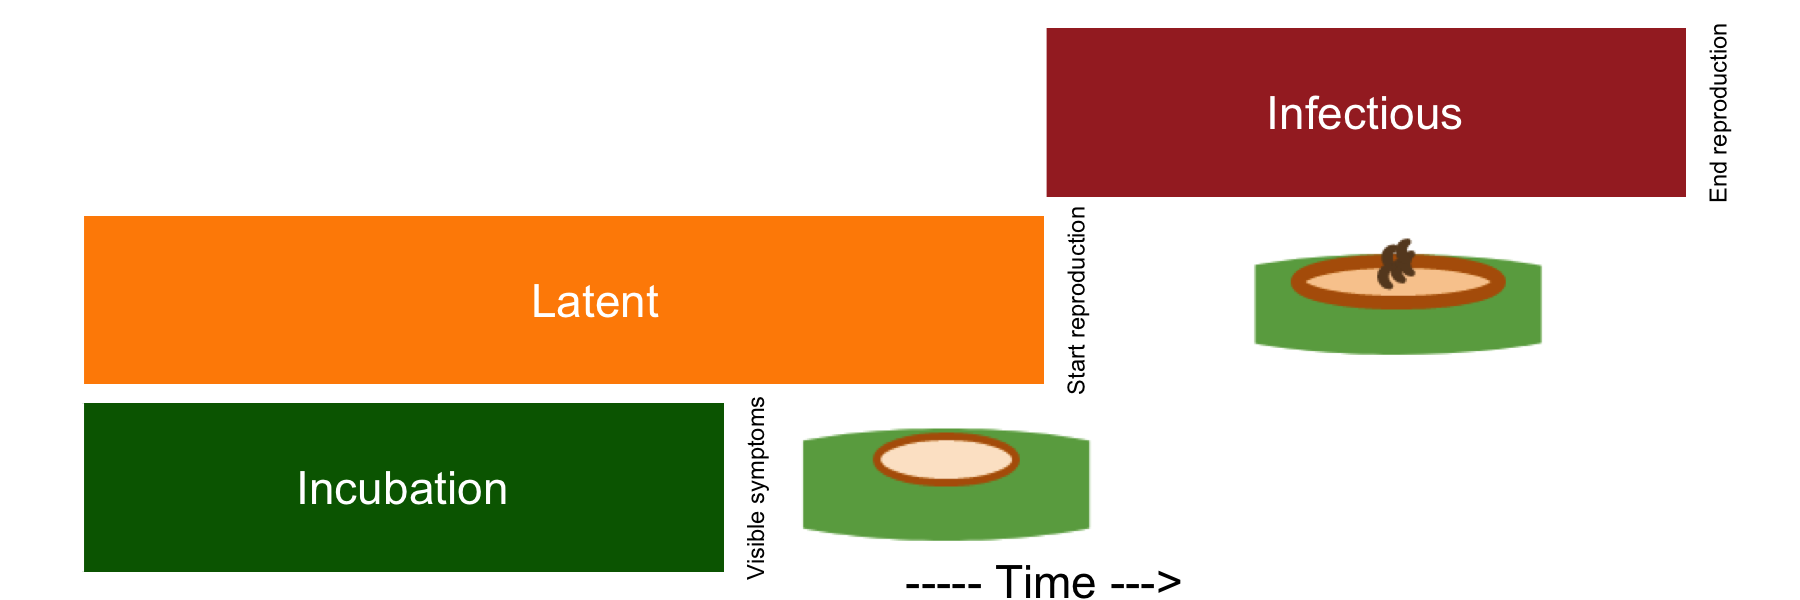
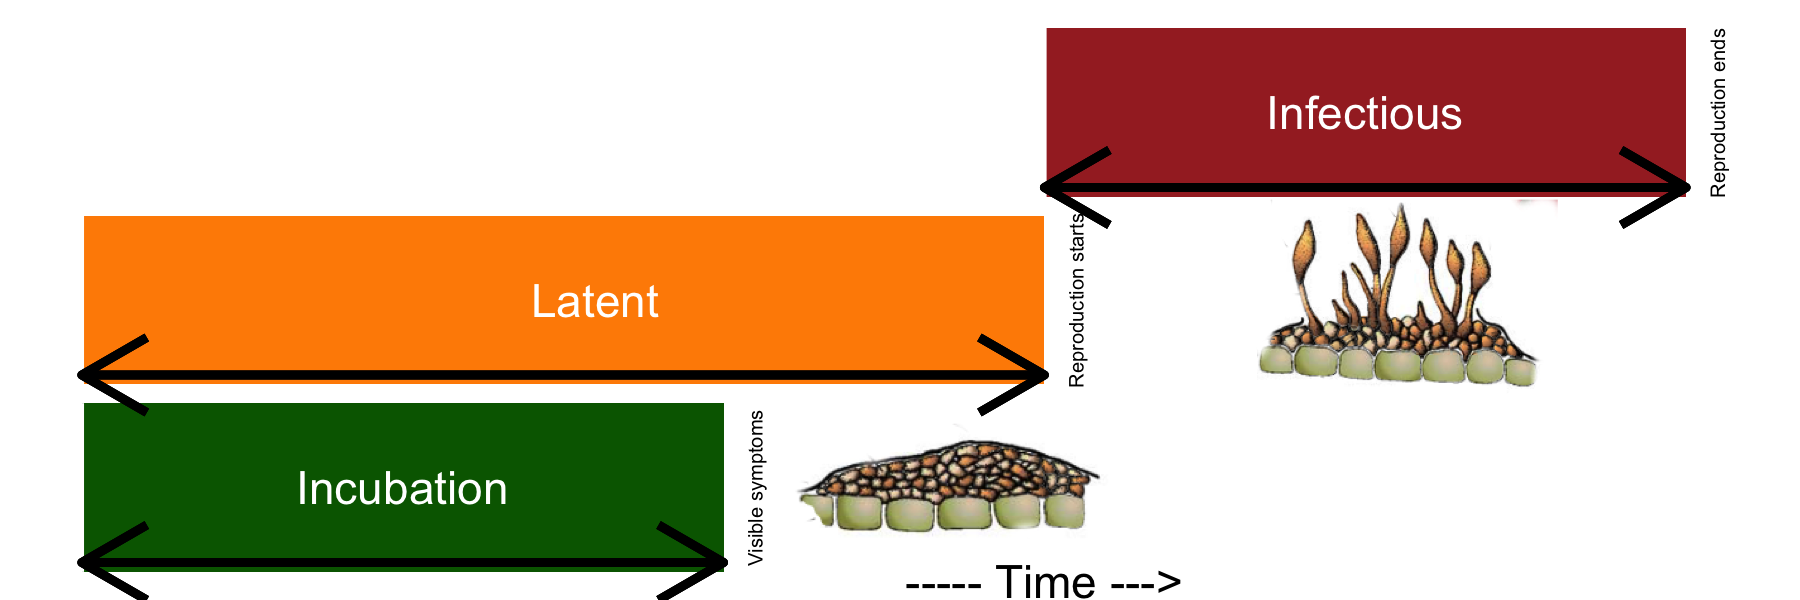
improved drawing

diff --git a/_book/temporal-dpc.html b/_book/temporal-dpc.html
@@ -7,7 +7,7 @@
 <meta name="viewport" content="width=device-width, initial-scale=1.0, user-scalable=yes">
 
 
-<title>R4PDE - 8&nbsp; Disease progress curves</title>
+<title>R4PDE - 7&nbsp; Disease progress curves</title>
 <style>
 code{white-space: pre-wrap;}
 span.smallcaps{font-variant: small-caps;}
@@ -164,7 +164,7 @@ gtag('config', 'G-5T7SZYQV79', { 'anonymize_ip': true});
   <header id="quarto-header" class="headroom fixed-top">
   <nav class="quarto-secondary-nav" data-bs-toggle="collapse" data-bs-target="#quarto-sidebar" aria-controls="quarto-sidebar" aria-expanded="false" aria-label="Toggle sidebar navigation" onclick="if (window.quartoToggleHeadroom) { window.quartoToggleHeadroom(); }">
     <div class="container-fluid d-flex justify-content-between">
-      <h1 class="quarto-secondary-nav-title"><span class="chapter-number">8</span>&nbsp; <span class="chapter-title">Disease progress curves</span></h1>
+      <h1 class="quarto-secondary-nav-title"><span class="chapter-number">7</span>&nbsp; <span class="chapter-title">Disease progress curves</span></h1>
       <button type="button" class="quarto-btn-toggle btn" aria-label="Show secondary navigation">
         <i class="bi bi-chevron-right"></i>
       </button>
@@ -220,27 +220,22 @@ gtag('config', 'G-5T7SZYQV79', { 'anonymize_ip': true});
 </li>
           <li class="sidebar-item">
   <div class="sidebar-item-container"> 
-  <a href="./data-type-distributions.html" class="sidebar-item-text sidebar-link"><span class="chapter-number">3</span>&nbsp; <span class="chapter-title">Data types and simulation</span></a>
+  <a href="./data-ordinal.html" class="sidebar-item-text sidebar-link"><span class="chapter-number">3</span>&nbsp; <span class="chapter-title">Ordinal scales</span></a>
   </div>
 </li>
           <li class="sidebar-item">
   <div class="sidebar-item-container"> 
-  <a href="./data-ordinal.html" class="sidebar-item-text sidebar-link"><span class="chapter-number">4</span>&nbsp; <span class="chapter-title">Ordinal scales</span></a>
+  <a href="./data-actual-severity.html" class="sidebar-item-text sidebar-link"><span class="chapter-number">4</span>&nbsp; <span class="chapter-title">Image analysis</span></a>
   </div>
 </li>
           <li class="sidebar-item">
   <div class="sidebar-item-container"> 
-  <a href="./data-actual-severity.html" class="sidebar-item-text sidebar-link"><span class="chapter-number">5</span>&nbsp; <span class="chapter-title">Image analysis</span></a>
+  <a href="./data-sads.html" class="sidebar-item-text sidebar-link"><span class="chapter-number">5</span>&nbsp; <span class="chapter-title">Standard area diagrams</span></a>
   </div>
 </li>
           <li class="sidebar-item">
   <div class="sidebar-item-container"> 
-  <a href="./data-sads.html" class="sidebar-item-text sidebar-link"><span class="chapter-number">6</span>&nbsp; <span class="chapter-title">Standard area diagrams</span></a>
-  </div>
-</li>
-          <li class="sidebar-item">
-  <div class="sidebar-item-container"> 
-  <a href="./data-accuracy.html" class="sidebar-item-text sidebar-link"><span class="chapter-number">7</span>&nbsp; <span class="chapter-title">Reliability and accuracy</span></a>
+  <a href="./data-accuracy.html" class="sidebar-item-text sidebar-link"><span class="chapter-number">6</span>&nbsp; <span class="chapter-title">Reliability and accuracy</span></a>
   </div>
 </li>
       </ul>
@@ -255,17 +250,17 @@ gtag('config', 'G-5T7SZYQV79', { 'anonymize_ip': true});
       <ul id="quarto-sidebar-section-2" class="collapse list-unstyled sidebar-section depth1 show">  
           <li class="sidebar-item">
   <div class="sidebar-item-container"> 
-  <a href="./temporal-dpc.html" class="sidebar-item-text sidebar-link active"><span class="chapter-number">8</span>&nbsp; <span class="chapter-title">Disease progress curves</span></a>
+  <a href="./temporal-dpc.html" class="sidebar-item-text sidebar-link active"><span class="chapter-number">7</span>&nbsp; <span class="chapter-title">Disease progress curves</span></a>
   </div>
 </li>
           <li class="sidebar-item">
   <div class="sidebar-item-container"> 
-  <a href="./temporal-models.html" class="sidebar-item-text sidebar-link"><span class="chapter-number">9</span>&nbsp; <span class="chapter-title">Population models</span></a>
+  <a href="./temporal-models.html" class="sidebar-item-text sidebar-link"><span class="chapter-number">8</span>&nbsp; <span class="chapter-title">Population models</span></a>
   </div>
 </li>
           <li class="sidebar-item">
   <div class="sidebar-item-container"> 
-  <a href="./temporal-fitting.html" class="sidebar-item-text sidebar-link"><span class="chapter-number">10</span>&nbsp; <span class="chapter-title">Model fitting</span></a>
+  <a href="./temporal-fitting.html" class="sidebar-item-text sidebar-link"><span class="chapter-number">9</span>&nbsp; <span class="chapter-title">Model fitting</span></a>
   </div>
 </li>
       </ul>
@@ -280,27 +275,27 @@ gtag('config', 'G-5T7SZYQV79', { 'anonymize_ip': true});
       <ul id="quarto-sidebar-section-3" class="collapse list-unstyled sidebar-section depth1 show">  
           <li class="sidebar-item">
   <div class="sidebar-item-container"> 
-  <a href="./spatial-gradients.html" class="sidebar-item-text sidebar-link"><span class="chapter-number">11</span>&nbsp; <span class="chapter-title">Spatial gradients</span></a>
+  <a href="./spatial-gradients.html" class="sidebar-item-text sidebar-link"><span class="chapter-number">10</span>&nbsp; <span class="chapter-title">Spatial gradients</span></a>
   </div>
 </li>
           <li class="sidebar-item">
   <div class="sidebar-item-container"> 
-  <a href="./spatial-models.html" class="sidebar-item-text sidebar-link"><span class="chapter-number">12</span>&nbsp; <span class="chapter-title">Gradient models</span></a>
+  <a href="./spatial-models.html" class="sidebar-item-text sidebar-link"><span class="chapter-number">11</span>&nbsp; <span class="chapter-title">Gradient models</span></a>
   </div>
 </li>
           <li class="sidebar-item">
   <div class="sidebar-item-container"> 
-  <a href="./spatial-fitting.html" class="sidebar-item-text sidebar-link"><span class="chapter-number">13</span>&nbsp; <span class="chapter-title">Fitting gradient models</span></a>
+  <a href="./spatial-fitting.html" class="sidebar-item-text sidebar-link"><span class="chapter-number">12</span>&nbsp; <span class="chapter-title">Fitting gradient models</span></a>
   </div>
 </li>
           <li class="sidebar-item">
   <div class="sidebar-item-container"> 
-  <a href="./spatial-patterns.html" class="sidebar-item-text sidebar-link"><span class="chapter-number">14</span>&nbsp; <span class="chapter-title">Spatial patterns</span></a>
+  <a href="./spatial-patterns.html" class="sidebar-item-text sidebar-link"><span class="chapter-number">13</span>&nbsp; <span class="chapter-title">Spatial patterns</span></a>
   </div>
 </li>
           <li class="sidebar-item">
   <div class="sidebar-item-container"> 
-  <a href="./spatial-tests.html" class="sidebar-item-text sidebar-link"><span class="chapter-number">15</span>&nbsp; <span class="chapter-title">Tests for patterns</span></a>
+  <a href="./spatial-tests.html" class="sidebar-item-text sidebar-link"><span class="chapter-number">14</span>&nbsp; <span class="chapter-title">Tests for patterns</span></a>
   </div>
 </li>
       </ul>
@@ -315,12 +310,12 @@ gtag('config', 'G-5T7SZYQV79', { 'anonymize_ip': true});
       <ul id="quarto-sidebar-section-4" class="collapse list-unstyled sidebar-section depth1 show">  
           <li class="sidebar-item">
   <div class="sidebar-item-container"> 
-  <a href="./yieldloss-concepts.html" class="sidebar-item-text sidebar-link"><span class="chapter-number">16</span>&nbsp; <span class="chapter-title">Definitions and concepts</span></a>
+  <a href="./yieldloss-concepts.html" class="sidebar-item-text sidebar-link"><span class="chapter-number">15</span>&nbsp; <span class="chapter-title">Definitions and concepts</span></a>
   </div>
 </li>
           <li class="sidebar-item">
   <div class="sidebar-item-container"> 
-  <a href="./yieldloss-regression-models.html" class="sidebar-item-text sidebar-link"><span class="chapter-number">17</span>&nbsp; <span class="chapter-title">Statistical models</span></a>
+  <a href="./yieldloss-regression-models.html" class="sidebar-item-text sidebar-link"><span class="chapter-number">16</span>&nbsp; <span class="chapter-title">Statistical models</span></a>
   </div>
 </li>
       </ul>
@@ -339,10 +334,10 @@ gtag('config', 'G-5T7SZYQV79', { 'anonymize_ip': true});
     <h2 id="toc-title">Table of contents</h2>
    
   <ul>
-  <li><a href="#how-epidemics-occur" id="toc-how-epidemics-occur" class="nav-link active" data-scroll-target="#how-epidemics-occur"><span class="toc-section-number">8.1</span>  How epidemics occur</a></li>
-  <li><a href="#disease-curves" id="toc-disease-curves" class="nav-link" data-scroll-target="#disease-curves"><span class="toc-section-number">8.2</span>  Disease curves</a></li>
-  <li><a href="#epidemic-classification" id="toc-epidemic-classification" class="nav-link" data-scroll-target="#epidemic-classification"><span class="toc-section-number">8.3</span>  Epidemic classification</a></li>
-  <li><a href="#curve-descriptors-and-audpc" id="toc-curve-descriptors-and-audpc" class="nav-link" data-scroll-target="#curve-descriptors-and-audpc"><span class="toc-section-number">8.4</span>  Curve descriptors and AUDPC</a></li>
+  <li><a href="#how-epidemics-occur" id="toc-how-epidemics-occur" class="nav-link active" data-scroll-target="#how-epidemics-occur"><span class="toc-section-number">7.1</span>  How epidemics occur</a></li>
+  <li><a href="#disease-curves" id="toc-disease-curves" class="nav-link" data-scroll-target="#disease-curves"><span class="toc-section-number">7.2</span>  Disease curves</a></li>
+  <li><a href="#epidemic-classification" id="toc-epidemic-classification" class="nav-link" data-scroll-target="#epidemic-classification"><span class="toc-section-number">7.3</span>  Epidemic classification</a></li>
+  <li><a href="#curve-descriptors-and-audpc" id="toc-curve-descriptors-and-audpc" class="nav-link" data-scroll-target="#curve-descriptors-and-audpc"><span class="toc-section-number">7.4</span>  Curve descriptors and AUDPC</a></li>
   </ul>
 <div class="toc-actions"><div><i class="bi bi-github"></i></div><div class="action-links"><p><a href="https://github.com/emdelponte/epidemiology-R/edit/main/temporal-dpc.qmd" class="toc-action">Edit this page</a></p><p><a href="https://github.com/emdelponte/epidemiology-R/issues/new" class="toc-action">Report an issue</a></p></div></div></nav>
     </div>
@@ -351,7 +346,7 @@ gtag('config', 'G-5T7SZYQV79', { 'anonymize_ip': true});
 
 <header id="title-block-header" class="quarto-title-block default">
 <div class="quarto-title">
-<h1 class="title d-none d-lg-block"><span class="chapter-number">8</span>&nbsp; <span class="chapter-title">Disease progress curves</span></h1>
+<h1 class="title d-none d-lg-block"><span class="chapter-number">7</span>&nbsp; <span class="chapter-title">Disease progress curves</span></h1>
 </div>
 
 
@@ -376,8 +371,8 @@ gtag('config', 'G-5T7SZYQV79', { 'anonymize_ip': true});
 </div>
 </div>
 </div>
-<section id="how-epidemics-occur" class="level2" data-number="8.1">
-<h2 data-number="8.1" class="anchored" data-anchor-id="how-epidemics-occur"><span class="header-section-number">8.1</span> How epidemics occur</h2>
+<section id="how-epidemics-occur" class="level2" data-number="7.1">
+<h2 data-number="7.1" class="anchored" data-anchor-id="how-epidemics-occur"><span class="header-section-number">7.1</span> How epidemics occur</h2>
 <p>Before knowing how epidemics develop in time, it is important to understand how an epidemic occur. An epidemic begins when the <strong>primary inoculum</strong> (a variable number of propagules able to infect the plant) that is <em>surviving</em> somewhere establishes an intimate contact with individuals of the host population - this process is called <em>infection</em>. These inocula are usually surviving externally to the plant host and need to <em>disperse</em> (move), passively or by means of a vector, to reach the plant. It can also be that a growing host encounter a localized (static) source of inoculum.</p>
 <p>Once the infection is established, the pathogen <em>colonizes</em> the plant tissues and disease symptoms are noticed. When this happens, the <strong>incubation period</strong> can be measured in time units. A successful colonization will lead to <em>reproduction</em> of the pathogen inside and/or external to the crop, and so the <strong>latent period</strong> is completed, and can also be measure in time units. Finally, the <strong>infectious period</strong> takes place and continues until the pathogen is not capable of producing the <strong>secondary inoculum</strong> on the infected site.</p>
 <div class="cell">
@@ -398,7 +393,7 @@ gtag('config', 'G-5T7SZYQV79', { 'anonymize_ip': true});
 
 </div>
 <p></p>
-<p></p><figcaption class="figure-caption">Figure&nbsp;8.1: Five main processes of the disease cycle</figcaption><p></p>
+<p></p><figcaption class="figure-caption">Figure&nbsp;7.1: Five main processes of the disease cycle</figcaption><p></p>
 </figure>
 </div>
 </div>
@@ -435,8 +430,8 @@ gtag('config', 'G-5T7SZYQV79', { 'anonymize_ip': true});
 <span id="cb1-26"><a href="#cb1-26" aria-hidden="true" tabindex="-1"></a>  </span>
 <span id="cb1-27"><a href="#cb1-27" aria-hidden="true" tabindex="-1"></a>  <span class="fu">library</span>(png)</span>
 <span id="cb1-28"><a href="#cb1-28" aria-hidden="true" tabindex="-1"></a>  <span class="fu">library</span>(cowplot)</span>
-<span id="cb1-29"><a href="#cb1-29" aria-hidden="true" tabindex="-1"></a>  incubation <span class="ot">&lt;-</span> <span class="fu">readPNG</span>(<span class="st">"imgs/incubation.png"</span>, <span class="at">native =</span> <span class="cn">TRUE</span>)</span>
-<span id="cb1-30"><a href="#cb1-30" aria-hidden="true" tabindex="-1"></a>  latent <span class="ot">&lt;-</span> <span class="fu">readPNG</span>(<span class="st">"imgs/latent.png"</span>, <span class="at">native =</span> <span class="cn">TRUE</span>)</span>
+<span id="cb1-29"><a href="#cb1-29" aria-hidden="true" tabindex="-1"></a>  incubation <span class="ot">&lt;-</span> <span class="fu">readPNG</span>(<span class="st">"imgs/incubation3.png"</span>, <span class="at">native =</span> <span class="cn">TRUE</span>)</span>
+<span id="cb1-30"><a href="#cb1-30" aria-hidden="true" tabindex="-1"></a>  latent <span class="ot">&lt;-</span> <span class="fu">readPNG</span>(<span class="st">"imgs/latent3.png"</span>, <span class="at">native =</span> <span class="cn">TRUE</span>)</span>
 <span id="cb1-31"><a href="#cb1-31" aria-hidden="true" tabindex="-1"></a>  p2 <span class="ot">&lt;-</span> p <span class="sc">+</span> <span class="fu">draw_image</span>(incubation , <span class="at">x =</span> <span class="fl">0.5</span>, <span class="at">y =</span> <span class="dv">13</span>, <span class="at">scale =</span> <span class="dv">5</span>)<span class="sc">+</span></span>
 <span id="cb1-32"><a href="#cb1-32" aria-hidden="true" tabindex="-1"></a>    <span class="fu">draw_image</span>(latent , <span class="at">x =</span> <span class="fl">1.5</span>, <span class="at">y =</span> <span class="dv">20</span>, <span class="at">scale =</span> <span class="dv">5</span>)</span>
 <span id="cb1-33"><a href="#cb1-33" aria-hidden="true" tabindex="-1"></a>  <span class="fu">ggsave</span>(<span class="st">"imgs/periods.png"</span>, <span class="at">width =</span><span class="dv">6</span>, <span class="at">height =</span><span class="dv">2</span>, <span class="at">bg =</span> <span class="st">"white"</span>)  </span></code><button title="Copy to Clipboard" class="code-copy-button"><i class="bi"></i></button></pre></div>
@@ -445,12 +440,12 @@ gtag('config', 'G-5T7SZYQV79', { 'anonymize_ip': true});
 <div id="fig-periods" class="quarto-figure quarto-figure-center anchored">
 <figure class="figure">
 <p><img src="imgs/periods.png" class="img-fluid figure-img"></p>
-<p></p><figcaption class="figure-caption">Figure&nbsp;8.2: Time-related epidemiological periods:</figcaption><p></p>
+<p></p><figcaption class="figure-caption">Figure&nbsp;7.2: Three time-related epidemiological periods and their relations with stages of the disease cycle including colonization (symptoms) and reproduction (sporulation in the case of fungi). Drawings of apple scab symptoms and signs adapted from Agrios (2005)</figcaption><p></p>
 </figure>
 </div>
 </section>
-<section id="disease-curves" class="level2" data-number="8.2">
-<h2 data-number="8.2" class="anchored" data-anchor-id="disease-curves"><span class="header-section-number">8.2</span> Disease curves</h2>
+<section id="disease-curves" class="level2" data-number="7.2">
+<h2 data-number="7.2" class="anchored" data-anchor-id="disease-curves"><span class="header-section-number">7.2</span> Disease curves</h2>
 <p>A key understanding of the epidemics relates to the knowledge of rates and patterns. Epidemics can be viewed as dynamic systems that change their state as time goes. The first and simplest way to characterize such changes in time is to produce a graphical plot called disease progress curve (DPC). This curve can be obtained as long as the intensity of the disease (<em>y</em>) in the host population is assessed sequentially in time (<em>t</em>).</p>
 <p>A DPC summarizes the interaction of the three main components of the disease triangle occurring during the epidemic. The curves can vary greatly in shape according to variations in each of the components, in particular due to management practices that alter the course of the epidemics and for which the goal is to stop disease increase. We can create a data frame in R for a single DPC and make a plot using ggplot. By convention we use <code>t</code> for time and <code>y</code> for disease intensity, expressed in percentage (0 to 100%).</p>
 <p>Firstly, let’s load the essential R packages and set up the environment.</p>
@@ -485,14 +480,14 @@ gtag('config', 'G-5T7SZYQV79', { 'anonymize_ip': true});
 <div id="fig-dpc1" class="quarto-figure quarto-figure-center anchored">
 <figure class="figure">
 <p><img src="imgs/dpc1.png" class="img-fluid figure-img"></p>
-<p></p><figcaption class="figure-caption">Figure&nbsp;8.3: A typical disease progress curve for an epidemic that reaches the maximum value</figcaption><p></p>
+<p></p><figcaption class="figure-caption">Figure&nbsp;7.3: A typical disease progress curve for an epidemic that reaches the maximum value</figcaption><p></p>
 </figure>
 </div>
 </section>
-<section id="epidemic-classification" class="level2" data-number="8.3">
-<h2 data-number="8.3" class="anchored" data-anchor-id="epidemic-classification"><span class="header-section-number">8.3</span> Epidemic classification</h2>
+<section id="epidemic-classification" class="level2" data-number="7.3">
+<h2 data-number="7.3" class="anchored" data-anchor-id="epidemic-classification"><span class="header-section-number">7.3</span> Epidemic classification</h2>
 <p>Vanderplank analysed the shapes of great number of epidemic curves and classified the epidemics into two basic types: monocyclic or polycyclic <span class="citation" data-cites="plantdi1963">(<a href="references.html#ref-plantdi1963" role="doc-biblioref">Vanderplank 1963</a>)</span>. In <strong>monocyclic</strong> epidemics, inoculum capable of infecting the crop is not produced during the epidemics. These epidemics are initiated and maintained only by the primary inoculum. There is no secondary infection and hence no further spread of newly produced inoculum among the host individuals. Tipically, the progress curves for monocyclic epidemics have a saturation type shape.</p>
-<p>Conversely, when the secondary inoculum produced during the epidemics is capable of infecting the host during the same crop cycle, a <strong>polycyclic</strong> epidemic is established. The number of repeated cycles just depends on how long it takes to complete a single infection cycle. These epidemics most commonly present a sigmoid shape <a href="#fig-cycles">Figure&nbsp;<span>8.4</span></a>.</p>
+<p>Conversely, when the secondary inoculum produced during the epidemics is capable of infecting the host during the same crop cycle, a <strong>polycyclic</strong> epidemic is established. The number of repeated cycles just depends on how long it takes to complete a single infection cycle. These epidemics most commonly present a sigmoid shape <a href="#fig-cycles">Figure&nbsp;<span>7.4</span></a>.</p>
 <div class="callout-tip callout callout-style-default callout-captioned">
 <div class="callout-header d-flex align-content-center">
 <div class="callout-icon-container">
@@ -546,12 +541,12 @@ Tip
 <div id="fig-cycles" class="quarto-figure quarto-figure-center anchored">
 <figure class="figure">
 <p><img src="imgs/cycles.png" class="img-fluid figure-img"></p>
-<p></p><figcaption class="figure-caption">Figure&nbsp;8.4: Hypothetical curves for monocyclic (left) and polycyclic (right) epidemics. Each circle represents a single infection cycle.</figcaption><p></p>
+<p></p><figcaption class="figure-caption">Figure&nbsp;7.4: Hypothetical curves for monocyclic (left) and polycyclic (right) epidemics. Each circle represents a single infection cycle.</figcaption><p></p>
 </figure>
 </div>
 </section>
-<section id="curve-descriptors-and-audpc" class="level2" data-number="8.4">
-<h2 data-number="8.4" class="anchored" data-anchor-id="curve-descriptors-and-audpc"><span class="header-section-number">8.4</span> Curve descriptors and AUDPC</h2>
+<section id="curve-descriptors-and-audpc" class="level2" data-number="7.4">
+<h2 data-number="7.4" class="anchored" data-anchor-id="curve-descriptors-and-audpc"><span class="header-section-number">7.4</span> Curve descriptors and AUDPC</h2>
 <p>The depiction and analysis of disease progress curves can provide useful information for gaining understanding of the underlying epidemic process. The curves are extensively used to evaluate how disease control measures affect epidemics. When characterizing DPCs, a researcher may be interested in describing and comparing epidemics that result from different treatments, or simply in their variations as affected by changes in environment, host or pathogen.</p>
 <p>The precision and complexity of the analysis of progress curve data depends on the objective of the study. In general, the goal is to synthesize similarities and differences among epidemics based on common descriptors of the disease progress curves. For example, the simple appraisal of the disease intensity at any time during the course of the epidemic should be sufficient for certain situations. Furthermore, a few quantitative and qualitative descriptors can be extracted including:</p>
 <ul>
@@ -575,7 +570,7 @@ Tip
 <div id="fig-audpc2" class="quarto-figure quarto-figure-center anchored">
 <figure class="figure">
 <p><img src="imgs/dpc2.png" class="img-fluid figure-img"></p>
-<p></p><figcaption class="figure-caption">Figure&nbsp;8.5: Representation of the area under the disease progress curve</figcaption><p></p>
+<p></p><figcaption class="figure-caption">Figure&nbsp;7.5: Representation of the area under the disease progress curve</figcaption><p></p>
 </figure>
 </div>
 <p>The AUDPC summarizes the “total measure of disease stress” and is largely used to compare epidemics <span class="citation" data-cites="jeger2001">(<a href="references.html#ref-jeger2001" role="doc-biblioref">Jeger and Viljanen-Rollinson 2001</a>)</span>. The most common approach to calculate AUDPC is the trapezoidal method, which splits the disease progress curves into a series of rectangles, calculating the area of each of them and then summing the areas. Let’s extend the plot code to show those rectangles using the <code>annotate</code> function.</p>
@@ -615,7 +610,7 @@ Tip
 <div id="fig-dpc3" class="quarto-figure quarto-figure-center anchored">
 <figure class="figure">
 <p><img src="imgs/dpc3.png" class="img-fluid figure-img"></p>
-<p></p><figcaption class="figure-caption">Figure&nbsp;8.6: Representation of the area under the disease progress curve calculated using the trapezoidal method</figcaption><p></p>
+<p></p><figcaption class="figure-caption">Figure&nbsp;7.6: Representation of the area under the disease progress curve calculated using the trapezoidal method</figcaption><p></p>
 </figure>
 </div>
 <p>In R, we can obtain the AUDPC for the DPC we created earlier using the <code>AUDPC</code> function offered by the <em>epifitter</em> package. Because we are using the percent data, we need to set the argument <code>y_proportion = FALSE</code>. The function returns the absolute AUDPC. If one is interested in relative AUDPC, the argument <code>type</code> should be set to <code>"relative"</code>. There is also the alternative to AUDPC, the area under the disease progress stairs (AUDPS) <span class="citation" data-cites="simko2012">(<a href="references.html#ref-simko2012" role="doc-biblioref">Simko and Piepho 2012</a>)</span>.</p>
@@ -792,12 +787,12 @@ window.document.addEventListener("DOMContentLoaded", function (event) {
 <nav class="page-navigation">
   <div class="nav-page nav-page-previous">
       <a href="./data-accuracy.html" class="pagination-link">
-        <i class="bi bi-arrow-left-short"></i> <span class="nav-page-text"><span class="chapter-number">7</span>&nbsp; <span class="chapter-title">Reliability and accuracy</span></span>
+        <i class="bi bi-arrow-left-short"></i> <span class="nav-page-text"><span class="chapter-number">6</span>&nbsp; <span class="chapter-title">Reliability and accuracy</span></span>
       </a>          
   </div>
   <div class="nav-page nav-page-next">
       <a href="./temporal-models.html" class="pagination-link">
-        <span class="nav-page-text"><span class="chapter-number">9</span>&nbsp; <span class="chapter-title">Population models</span></span> <i class="bi bi-arrow-right-short"></i>
+        <span class="nav-page-text"><span class="chapter-number">8</span>&nbsp; <span class="chapter-title">Population models</span></span> <i class="bi bi-arrow-right-short"></i>
       </a>
   </div>
 </nav>
